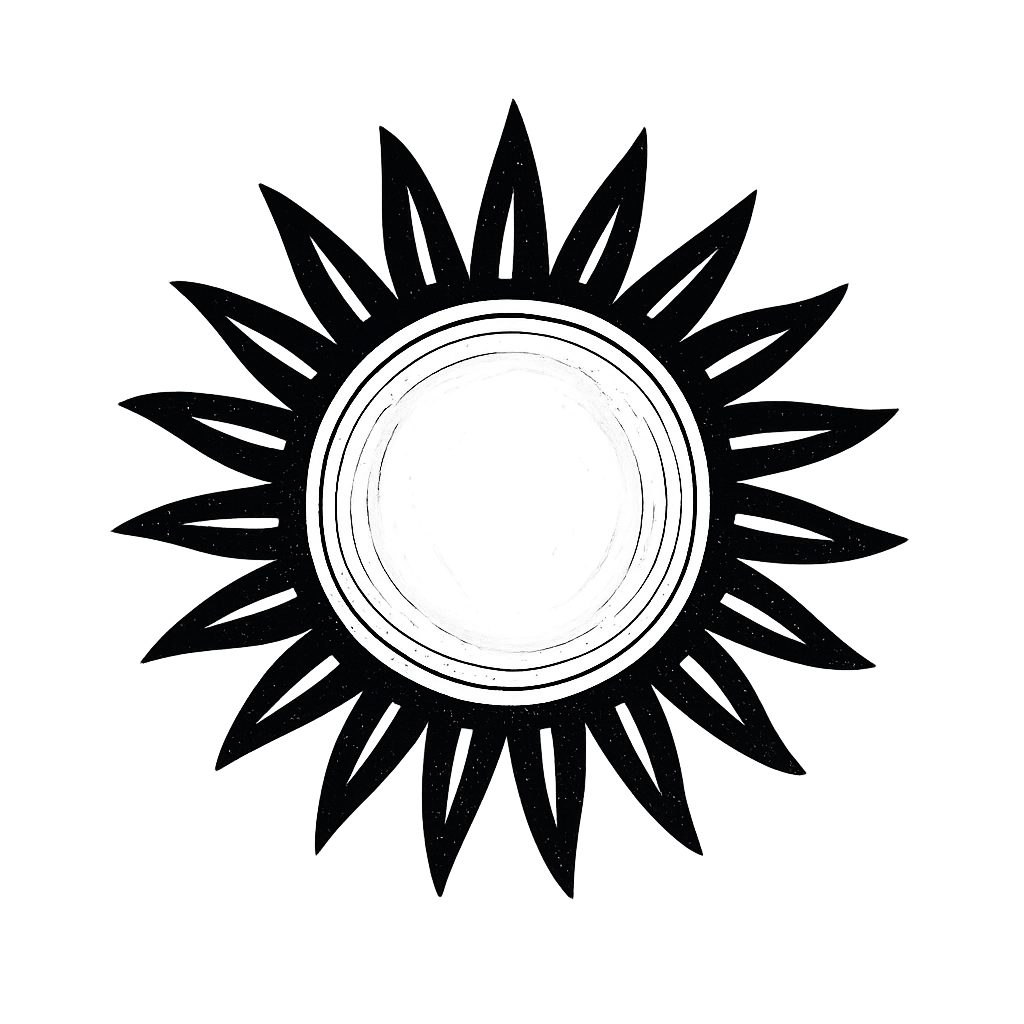
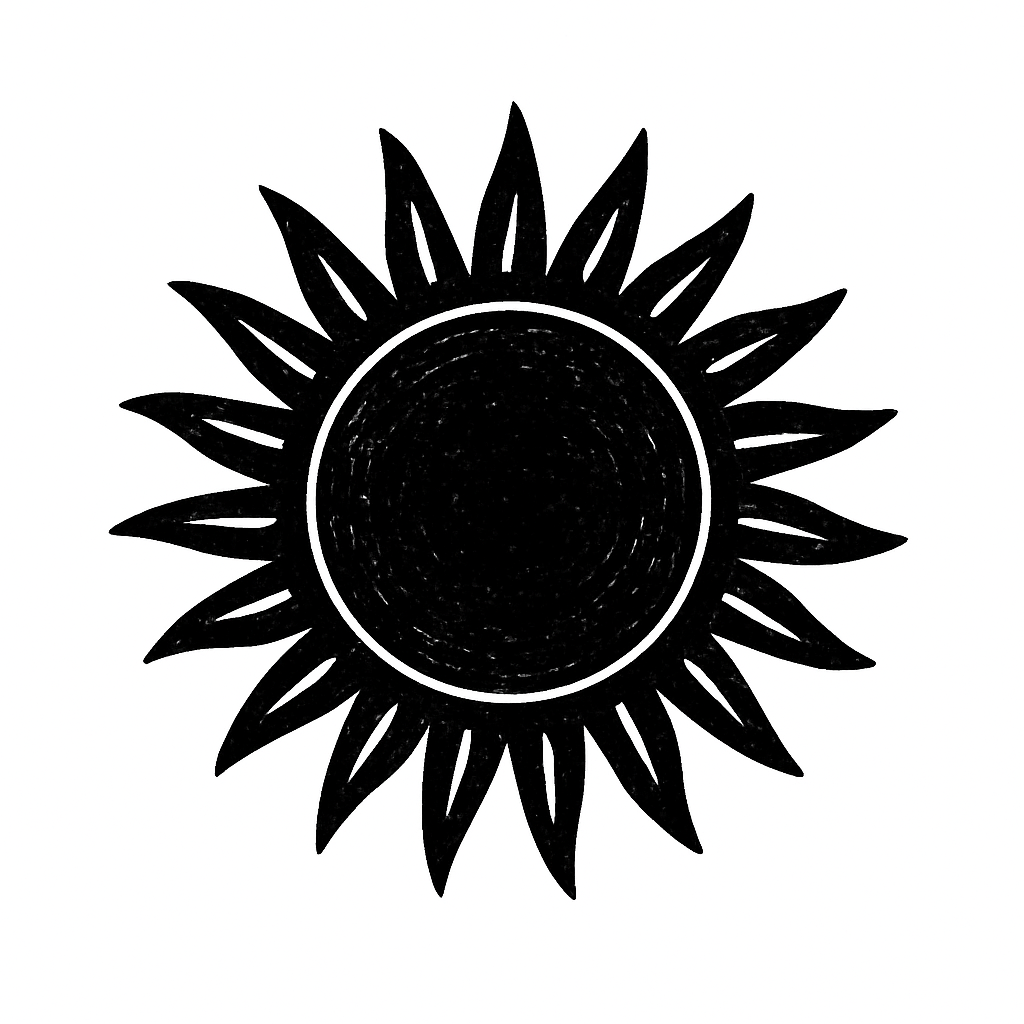
feat: add Brazilian woodcut sun to light theme background

diff --git a/core/static/css/themes.css b/core/static/css/themes.css
@@ -48,9 +48,9 @@
    BACKGROUNDS DOS TEMAS
    ================================================ */
 
-/* Tema Claro - Gradiente vertical com nuvens */
+/* Tema Claro - Gradiente vertical com nuvens e sol em xilogravura */
 body {
-  background: linear-gradient(to bottom, #e0f2fe 0%, #fef3c7 100%);
+  background: linear-gradient(135deg, #e0f2fe 0%, #fef3c7 100%);
   background-attachment: fixed;
   position: relative;
   min-height: 100vh;
@@ -70,6 +70,23 @@ body::before {
   background-size: 300px 300px, 400px 400px, 200px 200px;
   background-position: 0% 0%, 100% 100%, 50% 50%;
   background-repeat: no-repeat;
+  pointer-events: none;
+  z-index: -1;
+}
+
+body::after {
+  content: '';
+  position: fixed;
+  top: 0;
+  left: 0;
+  width: 100%;
+  height: 100%;
+  background-image: url('/static/img/patterns/background.image.png');
+  background-size: 200px 200px;
+  background-repeat: repeat;
+  background-position: center;
+  opacity: 0.4;
+  mix-blend-mode: overlay;
   pointer-events: none;
   z-index: -1;
 }
@@ -119,6 +136,11 @@ body::before {
   animation: twinkle 4s ease-in-out infinite alternate;
   pointer-events: none;
   z-index: -1;
+}
+
+/* Remover sol do tema escuro */
+[data-theme="dark"] body::after {
+  display: none;
 }
 
 /* Animação de brilho das estrelas */
